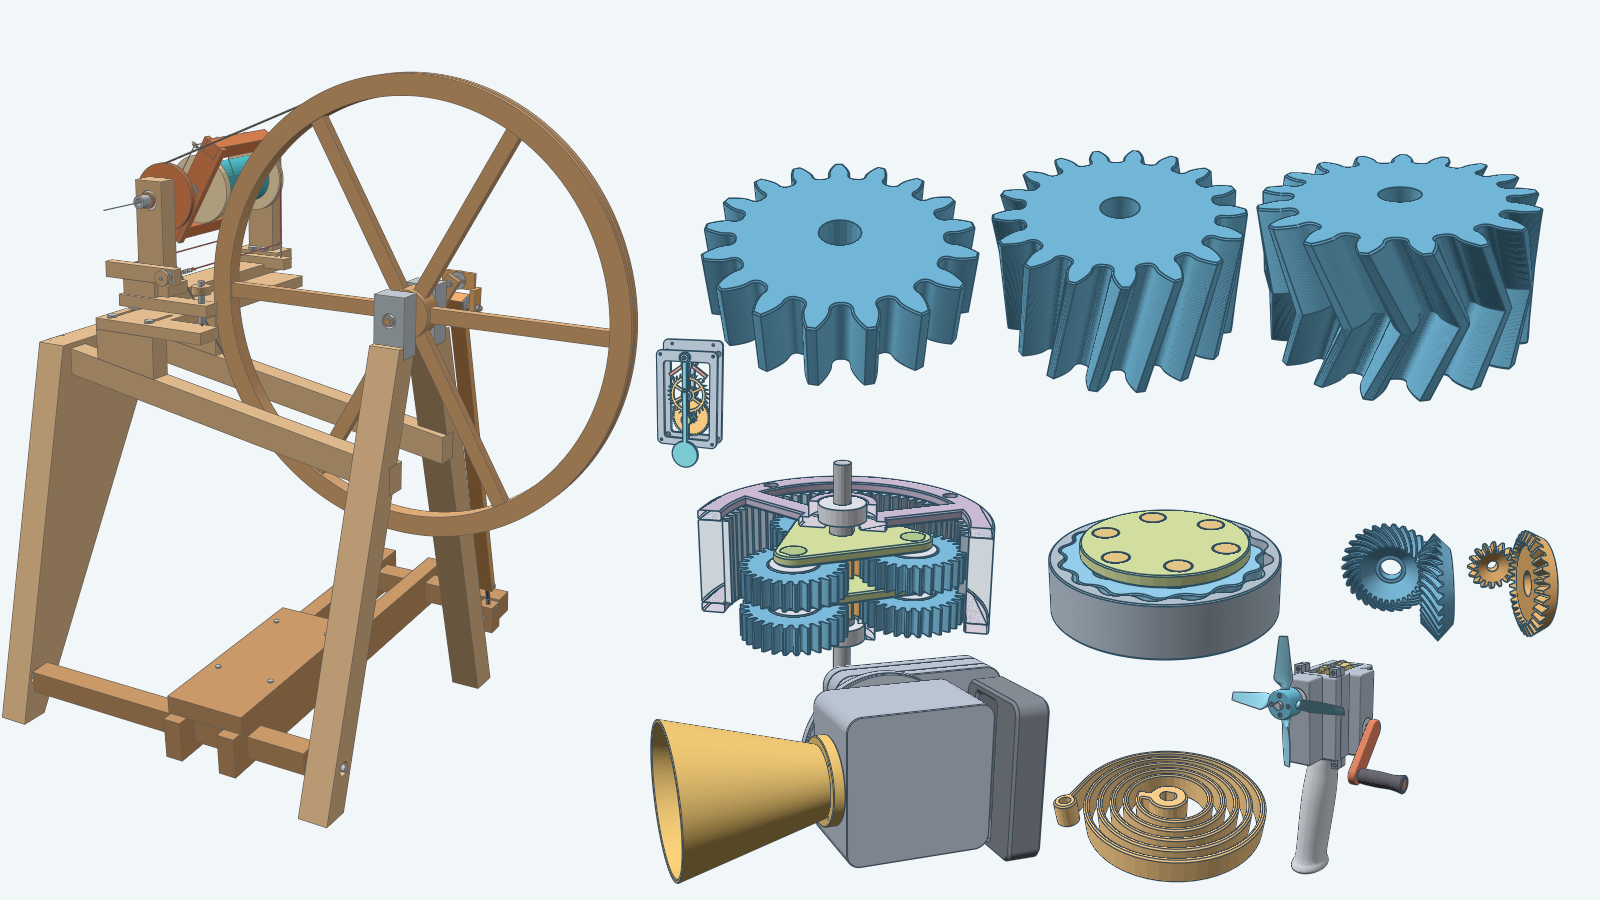
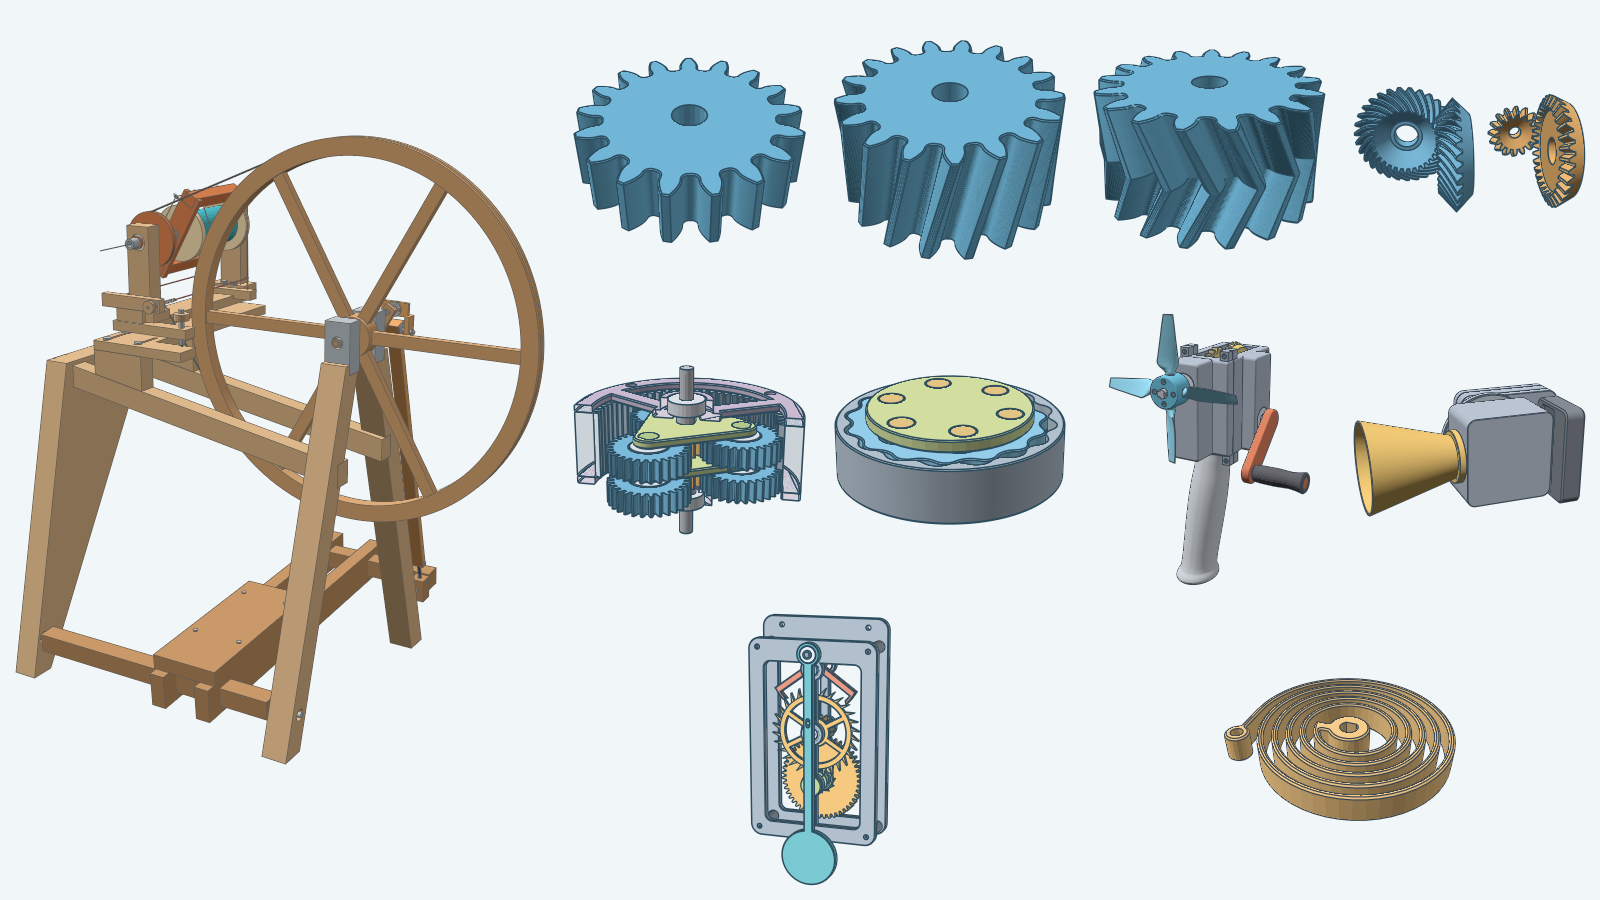
size gallery hero models evenly (#229)

diff --git a/tools/render/gallery.go b/tools/render/gallery.go
@@ -8,44 +8,48 @@ import (
 	"image/color"
 	"image/draw"
 	"image/png"
+	"math"
 	"os"
 	"path/filepath"
 
 	"github.com/lestrrat-3d/solidlens"
 )
 
-// galleryTile places one model's hero scene on the gallery image. The rectangle is in pixels of the
-// 1600 × 900 gallery image; the scene is rendered at the rectangle's size.
+// galleryTile places one model's hero scene on the gallery image. The cell is a rectangle in pixels of the
+// 1600 × 900 gallery image; renderGallery scales the model's drawn pixels to fill the cell, centred, so that
+// every model takes the same share of the image whatever the size and shape of its scene.
 type galleryTile struct {
 	scene func(context.Context) (solidlens.Scene, error)
-	area  image.Rectangle
+	cell  image.Rectangle
 }
 
-// galleryTiles puts the spinning wheel on the left, three involute gears across the top, and the planetary
-// gearbox, cycloidal drive, bevel gear pairs, hand-crank fan and hand-crank siren along the bottom.
-// The spiral spring tile sits in the gap between the siren and the fan. The escapement tile sits in the gap on the left, where none of its pixels meet another model's. The wheel tile is a full 16:9
-// scene whose empty margins extend past the canvas edge and under the gear tiles; renderGallery draws only the
-// pixels that differ from the background, so overlapping margins do not hide neighbours.
+// galleryTiles puts the spinning wheel in a tall cell on the left and the other ten models in a grid of four
+// columns beside it: the three involute gears and the bevel gear pair across the top, the planetary gearbox, cycloidal
+// drive, hand-crank fan and hand-crank siren in the middle, and the escapement and spiral spring centred below.
 var galleryTiles = []galleryTile{
-	{spinningWheelView("hero"), image.Rect(-480, 0, 1120, 900)},
-	{spurGearHero, image.Rect(555, 100, 1125, 421)},
-	{helicalGearHero, image.Rect(835, 100, 1405, 421)},
-	{herringboneGearHero, image.Rect(1115, 100, 1685, 421)},
-	{planetaryGearboxHero, image.Rect(600, 445, 1060, 705)},
-	{cycloidalHero, image.Rect(1030, 500, 1300, 670)},
-	{bevelGearHero, image.Rect(1300, 500, 1600, 670)},
-	{handCrankFanHero, image.Rect(1080, 620, 1560, 890)},
-	{handCrankSirenHero, image.Rect(620, 640, 1080, 899)},
-	{escapementHero, image.Rect(560, 330, 820, 476)},
-	{spiralSpringHero, image.Rect(1015, 735, 1305, 898)},
+	{spinningWheelView("hero"), image.Rect(0, 0, 560, 900)},
+	{spurGearHero, image.Rect(560, 0, 820, 300)},
+	{helicalGearHero, image.Rect(820, 0, 1080, 300)},
+	{herringboneGearHero, image.Rect(1080, 0, 1340, 300)},
+	{bevelGearHero, image.Rect(1340, 0, 1600, 300)},
+	{planetaryGearboxHero, image.Rect(560, 300, 820, 600)},
+	{cycloidalHero, image.Rect(820, 300, 1080, 600)},
+	{handCrankFanHero, image.Rect(1080, 300, 1340, 600)},
+	{handCrankSirenHero, image.Rect(1340, 300, 1600, 600)},
+	{escapementHero, image.Rect(690, 600, 950, 900)},
+	{spiralSpringHero, image.Rect(1210, 600, 1470, 900)},
 }
 
 const (
 	galleryWidth  = 1600
 	galleryHeight = 900
+	// galleryMargin is the space in gallery pixels kept free on each side of a model inside its cell.
+	galleryMargin = 14
+	// galleryProbeWidth is the width of the first, trial render that measures a model's drawn size.
+	galleryProbeWidth = 800
 )
 
-// renderGallery builds every model's hero scene, renders each as a tile, and writes them as one PNG. The
+// renderGallery builds every model's hero scene, renders each to fill its cell, and writes them as one PNG. The
 // layout scales with width; height must keep the 16:9 shape of the tiles.
 func renderGallery(ctx context.Context, output string, width, height int) error {
 	if output == "" {
@@ -56,27 +60,67 @@ func renderGallery(ctx context.Context, output string, width, height int) error 
 	}
 	canvas := image.NewRGBA(image.Rect(0, 0, width, height))
 	for i, tile := range galleryTiles {
-		area := scaleRect(tile.area, width)
 		scene, err := tile.scene(ctx)
 		if err != nil {
 			return fmt.Errorf("build gallery tile %d scene: %w", i, err)
 		}
-		var buffer bytes.Buffer
-		settings := solidlens.Settings{Width: area.Dx(), Height: area.Dy()}
-		if err := solidlens.RenderPNG(ctx, &buffer, scene, settings); err != nil {
+		cell := scaleRect(tile.cell, width)
+		margin := galleryMargin * width / galleryWidth
+		// A trial render measures the model's drawn size; the second render is made at the scale that fits the cell.
+		probe, _, err := renderTile(ctx, scene, galleryProbeWidth)
+		if err != nil {
 			return fmt.Errorf("render gallery tile %d: %w", i, err)
 		}
-		rendered, err := png.Decode(&buffer)
-		if err != nil {
-			return fmt.Errorf("decode gallery tile %d: %w", i, err)
+		drawn := foregroundBounds(probe, probe.At(0, 0))
+		if drawn.Empty() {
+			return fmt.Errorf("gallery tile %d draws nothing", i)
 		}
-		background := color.RGBAModel.Convert(rendered.At(0, 0))
+		fit := min(float64(cell.Dx()-2*margin)/float64(drawn.Dx()), float64(cell.Dy()-2*margin)/float64(drawn.Dy()))
+		rendered, background, err := renderTile(ctx, scene, int(math.Round(galleryProbeWidth*fit)))
+		if err != nil {
+			return fmt.Errorf("render gallery tile %d: %w", i, err)
+		}
 		if i == 0 {
 			draw.Draw(canvas, canvas.Bounds(), &image.Uniform{C: background}, image.Point{}, draw.Src)
 		}
-		drawForeground(canvas, rendered, area.Min, background)
+		drawn = foregroundBounds(rendered, background)
+		origin := image.Pt(cell.Min.X+(cell.Dx()-drawn.Dx())/2, cell.Min.Y+(cell.Dy()-drawn.Dy())/2)
+		drawForeground(canvas, rendered, drawn, origin, background)
 	}
 	return writePNG(output, canvas)
+}
+
+// renderTile renders scene at a 16:9 size of the given width and returns the image and its background colour.
+func renderTile(ctx context.Context, scene solidlens.Scene, width int) (image.Image, color.Color, error) {
+	var buffer bytes.Buffer
+	settings := solidlens.Settings{Width: width, Height: width * galleryHeight / galleryWidth}
+	if err := solidlens.RenderPNG(ctx, &buffer, scene, settings); err != nil {
+		return nil, nil, err
+	}
+	rendered, err := png.Decode(&buffer)
+	if err != nil {
+		return nil, nil, fmt.Errorf("decode image: %w", err)
+	}
+	return rendered, color.RGBAModel.Convert(rendered.At(0, 0)), nil
+}
+
+// foregroundBounds returns the smallest rectangle holding every pixel of img that differs from background.
+func foregroundBounds(img image.Image, background color.Color) image.Rectangle {
+	bounds := img.Bounds()
+	out := image.Rectangle{Min: bounds.Max, Max: bounds.Min}
+	for y := bounds.Min.Y; y < bounds.Max.Y; y++ {
+		for x := bounds.Min.X; x < bounds.Max.X; x++ {
+			if color.RGBAModel.Convert(img.At(x, y)) == background {
+				continue
+			}
+			out.Min.X, out.Min.Y = min(out.Min.X, x), min(out.Min.Y, y)
+			out.Max.X, out.Max.Y = max(out.Max.X, x+1), max(out.Max.Y, y+1)
+		}
+	}
+	if out.Min.X > out.Max.X {
+		return image.Rectangle{}
+	}
+	return out
 }
 
 // scaleRect scales a rectangle given in gallery pixels to an image width.
@@ -85,16 +129,16 @@ func scaleRect(r image.Rectangle, width int) image.Rectangle {
 	return image.Rect(scale(r.Min.X), scale(r.Min.Y), scale(r.Max.X), scale(r.Max.Y))
 }
 
-// drawForeground copies the pixels of src that differ from background onto dst at origin.
-func drawForeground(dst *image.RGBA, src image.Image, origin image.Point, background color.Color) {
-	bounds := src.Bounds()
-	for y := bounds.Min.Y; y < bounds.Max.Y; y++ {
-		for x := bounds.Min.X; x < bounds.Max.X; x++ {
+// drawForeground copies the pixels of src inside area that differ from background onto dst, placing the area's
+// top left corner at origin.
+func drawForeground(dst *image.RGBA, src image.Image, area image.Rectangle, origin image.Point, background color.Color) {
+	for y := area.Min.Y; y < area.Max.Y; y++ {
+		for x := area.Min.X; x < area.Max.X; x++ {
 			pixel := src.At(x, y)
-			if pixel == background {
+			if color.RGBAModel.Convert(pixel) == background {
 				continue
 			}
-			dst.Set(origin.X+x-bounds.Min.X, origin.Y+y-bounds.Min.Y, pixel)
+			dst.Set(origin.X+x-area.Min.X, origin.Y+y-area.Min.Y, pixel)
 		}
 	}
 }

diff --git a/docs/rendering.md b/docs/rendering.md
@@ -226,10 +226,12 @@ The `gallery/hero` preset does not include the ball bearing or screw gear.
 
 The `gallery/hero` preset writes the repository's hero image, `docs/images/gallery.png`. It renders the hero
 scenes of the spinning wheel, the spur, helical and herringbone gears, the planetary gearbox, the cycloidal
-drive, the bevel gear pair, the hand-crank fan, the hand-crank siren, the Graham escapement and the spiral spring one after another. It places each at its own size on a
-1600 × 900 pixel canvas (the wheel on the left, the gears and the fan on the right, the escapement in the gap at the middle left, the spiral spring in the gap between the siren and the fan), and keeps
-only the pixels that differ from the background where the tiles overlap. The escapement and spiral spring tiles' pixels meet no other
-model's. Building all eleven models takes about seven minutes plus the wheel build:
+drive, the bevel gear pair, the hand-crank fan, the hand-crank siren, the Graham escapement and the spiral spring one
+after another. It renders each model twice, once to measure the pixels it draws and once at the scale that fits them to
+a cell of the 1600 × 900 pixel canvas, so every model fills its cell alike. The wheel takes a tall cell on the left
+(560 pixels wide). The other ten models fill a grid of four columns (260 × 300 pixels each): the three gears and the
+bevel gear pair across the top, the planetary gearbox, cycloidal drive, fan and siren in the middle, and the escapement
+and spiral spring centred below. Building all eleven models takes about seven minutes plus the wheel build:
 
 ```sh
 go -C tools/render run . -model gallery -shot hero -out ../../docs/images/gallery.png
